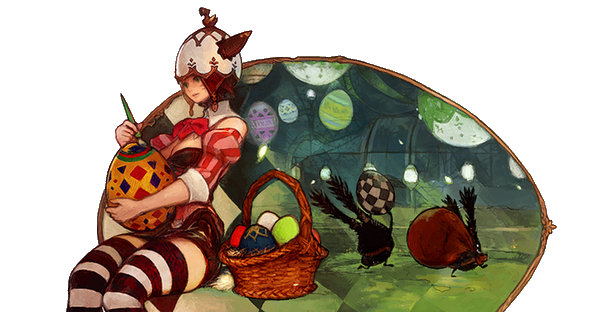
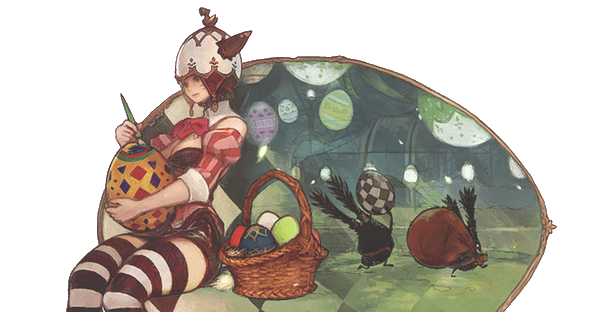
new bg!

diff --git a/theme.css b/theme.css
@@ -2,7 +2,7 @@
 html
 {
 	/* TODO: better bg */
-	background-color: pink;
+	background: url("bg.jpg");
 }
 
 /* art */
@@ -21,7 +21,6 @@ html, body, .art-container
 .art
 {
 	animation-duration: 2s;
-	opacity: 0.7;
 }
 
 /* spriggan chase */
